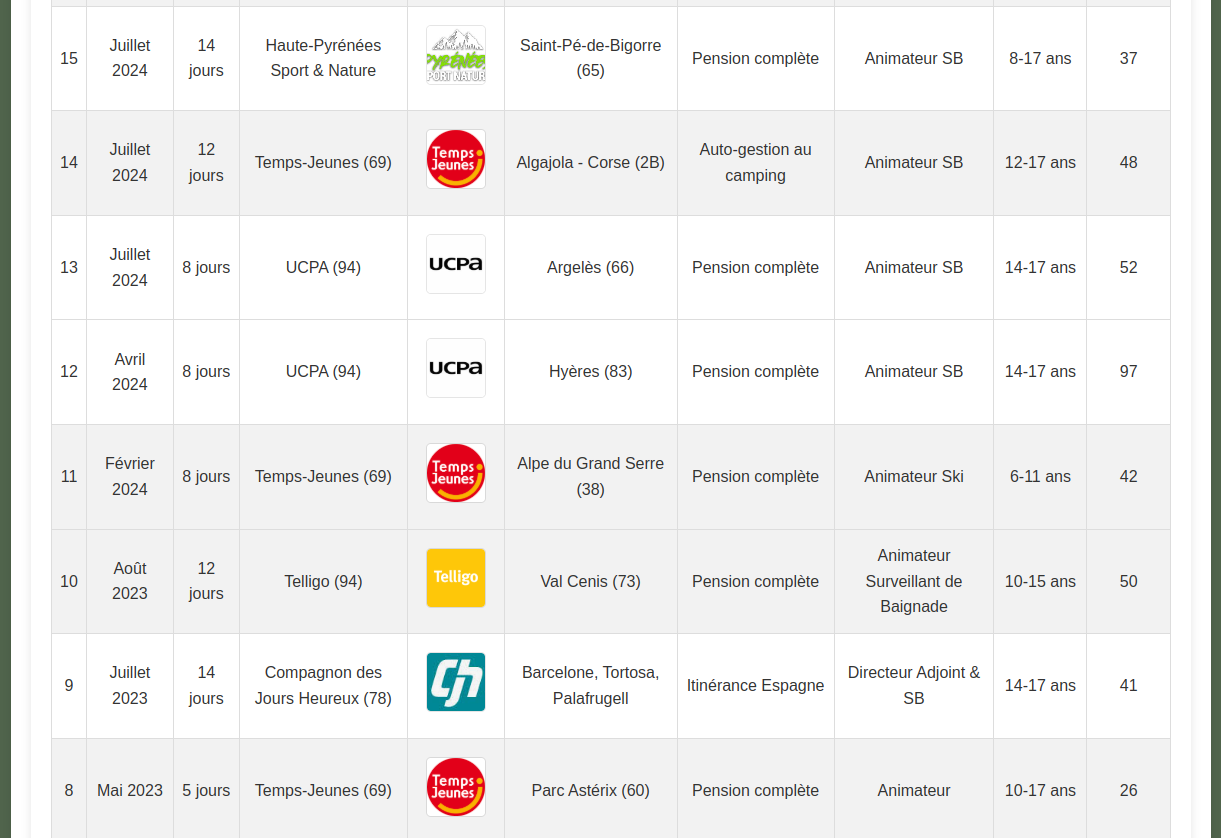
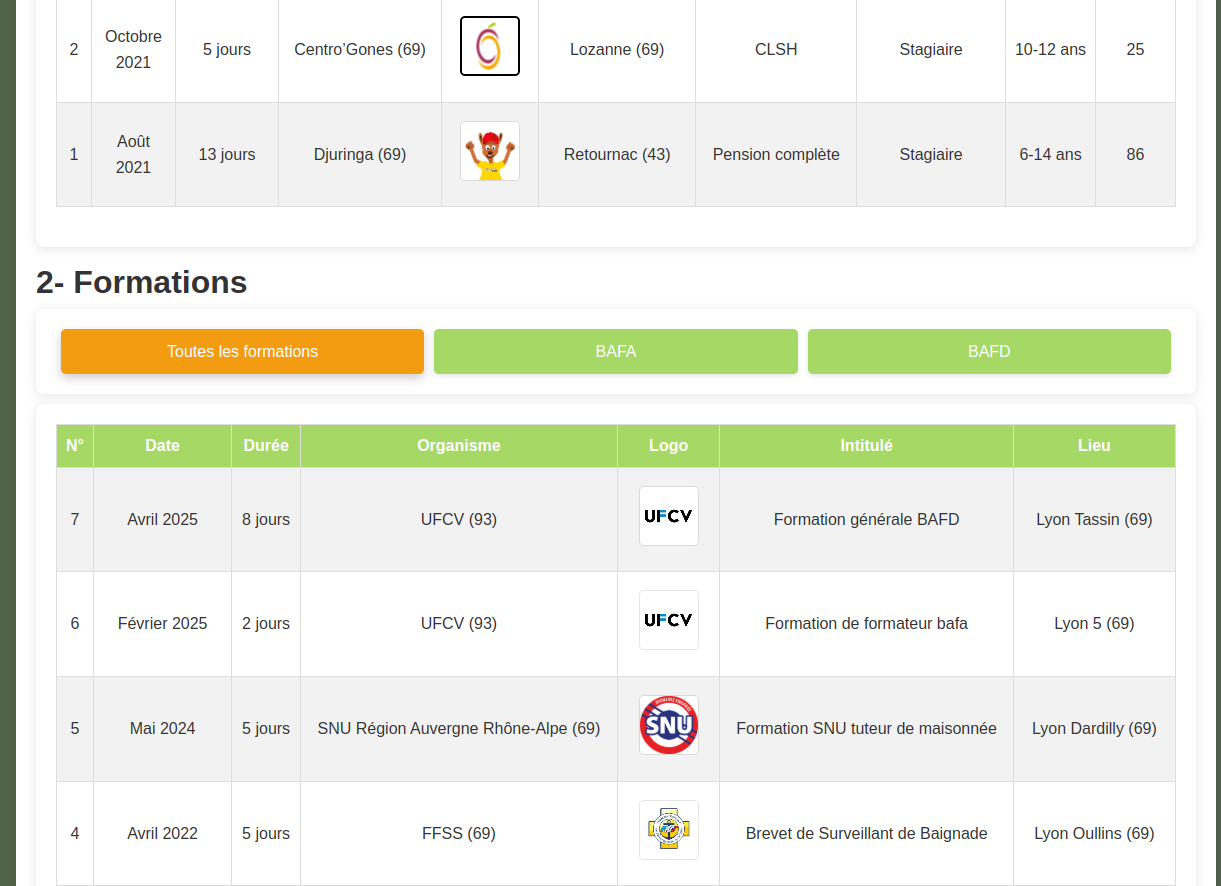
V150- capture d'écran + correction detail bafa

diff --git a/projets/Bafa/detail.html b/projets/Bafa/detail.html
@@ -71,10 +71,10 @@
         <div class="container">
 
             <div class="d-flex justify-content-between align-items-center">
-                <h2>Game Jam Python</h2>
+                <h2>Expériences dans l'animation</h2>
                 <ol>
                     <li><a href="../../index.html#portfolio" style="color: #f39c12">Home</a></li>
-                    <li>Game Jam Python</li>
+                    <li>Expériences BAFA & BAFD</li>
                 </ol>
             </div>
 
@@ -99,6 +99,14 @@
                                 <img src="2.png" alt="illustrationProjet1" width="300" height="700">
                             </div>
 
+                            <div class="swiper-slide">
+                                <img src="3.png" alt="illustrationProjet1" width="300" height="700">
+                            </div>
+
+                            <div class="swiper-slide">
+                                <img src="4.png" alt="illustrationProjet1" width="300" height="700">
+                            </div>
+
                         </div>
                         <div class="swiper-pagination"></div>
                     </div>
@@ -108,7 +116,7 @@
                     <div class="portfolio-info">
                         <h3>Information sur le parcours</h3>
                         <ul>
-                            <li><strong>Date du Project</strong>: Août 2021 - Aujourd'hui</li>
+                            <li><strong>Date de ces expériences</strong>: Août 2021 - Aujourd'hui</li>
                             <li><strong>Accessibilité</strong>: <a href="https://srn-romain.github.io/recap-bafa/"><u>Mes expériences en animation</u></a></li>
                         </ul>
 

diff --git a/index.html b/index.html
@@ -211,6 +211,7 @@
 
             <div class="resume-item">
               <h4>Brevet - Mention Très Bien</h4>
+              <img src="assets/img/college.png" alt="Logo de la formation" class="formation-logo">
               <h5>Juin 2019</h5>
               <p><em>Collège Alexis Kandelaft, Chazay d'Azergues</em></p>
               <li>Participation pendant 4 ans à l'orchestre du collège en tant qu'accordéoniste (2h/semaine)</li>
